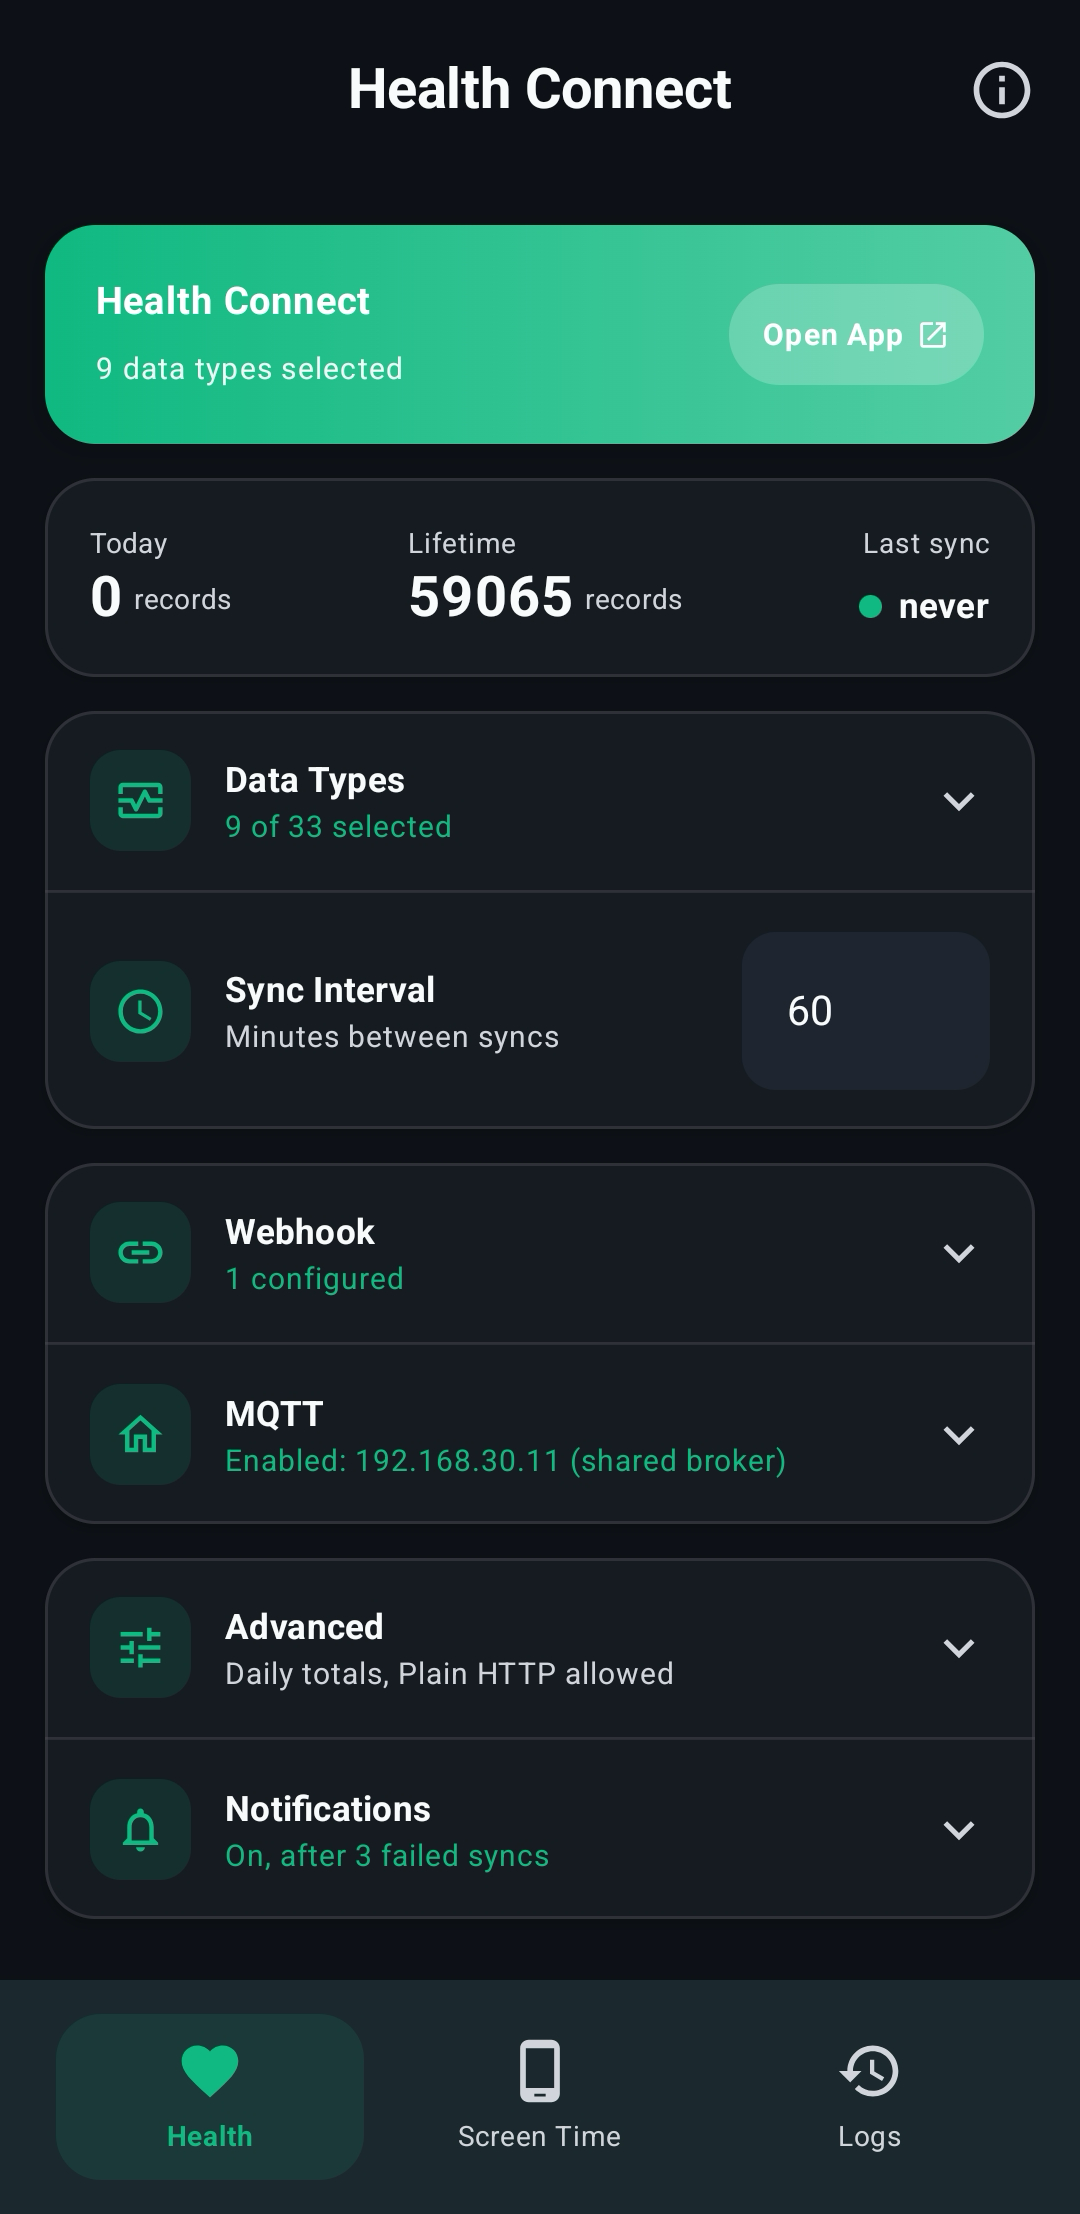
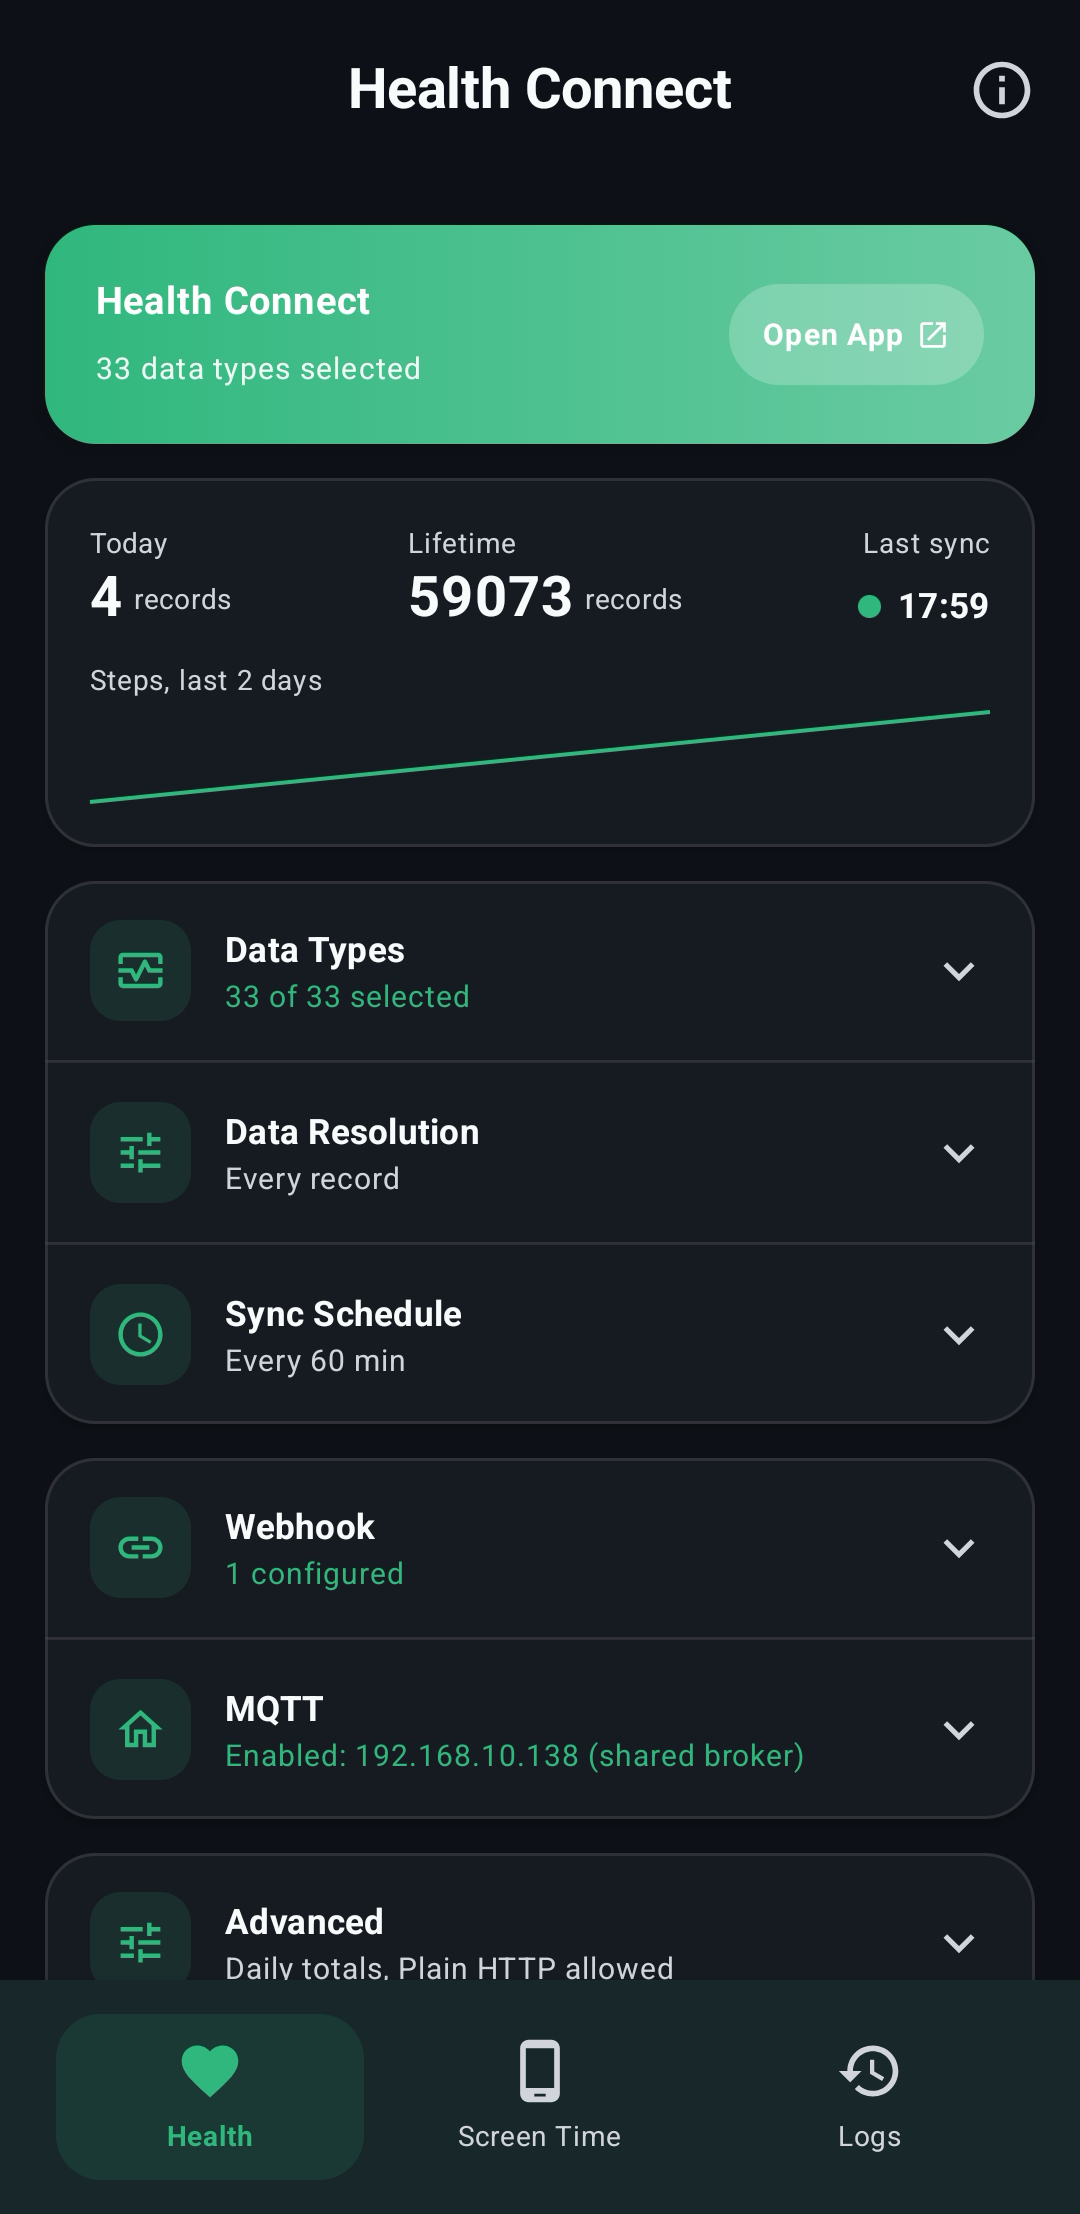
docs: Screenshots that show a working install
The Health Connect screenshot said "Today 0 records, Last sync never" with no sparkline, which is what an app looks like when it does not work. It came from an emulator with no data and empty per-source counters. The new set is from a Samsung S24 in dark mode on 1.15.0: 4 records today, 59,073 lifetime, a green dot at 17:59 and a steps trend. Logs show 100 deliveries at 88 percent, to a webhook and to MQTT, each with its outcome.

Two features shipped in 1.14.0 and appeared in no image anywhere. Data Resolution is now the third store screenshot, showing both families at once: heart rate averaged per minute, skin temperature per fifteen, steps summed per fifteen, distance per hour. About is the fifth, because the brand header is the strongest frame in the app and it was not shown to anyone; it also illustrates the General section of features.md.

The README table swaps the MQTT settings panel for Data Resolution, since the Home Assistant section below already shows both the resulting device and the app side of that setup. Every file in docs/screenshots is now referenced from the docs, which it was not before.

diff --git a/README.md b/README.md
@@ -26,10 +26,10 @@
   <a href="https://github.com/owen282000/life-dashboard-companion-app-ios">iOS version</a>
 </p>
 
-| Health Connect | Screen Time | MQTT / Home Assistant | Delivery logs |
+| Health Connect | Screen Time | Data resolution | Delivery logs |
 |:--:|:--:|:--:|:--:|
-| <img src="docs/screenshots/health-connect.png" alt="Health Connect screen"> | <img src="docs/screenshots/screen-time.png" alt="Screen Time screen"> | <img src="docs/screenshots/mqtt.png" alt="MQTT and sync actions"> | <img src="docs/screenshots/logs.png" alt="Logs screen"> |
-| 33 data types, per-type toggles, incremental sync | Foreground time per app, with a custom day boundary | Sensors appear in Home Assistant automatically | Every delivery logged, payloads inspectable |
+| <img src="docs/screenshots/health-connect.png" alt="Health Connect screen showing 4 records today and 59,073 lifetime, with a steps sparkline"> | <img src="docs/screenshots/screen-time.png" alt="Screen Time screen showing today's minutes, the most used app and a day boundary"> | <img src="docs/screenshots/data-resolution.png" alt="Per-type resolution: heart rate averaged per minute, steps summed per 15 minutes"> | <img src="docs/screenshots/logs.png" alt="Logs screen showing deliveries to a webhook and to MQTT, each with its outcome"> |
+| 33 data types, per-type toggles, incremental sync | Foreground time per app, with a custom day boundary | Dense series as averages or totals per window | Every delivery logged, payloads inspectable |
 
 ## Why this app?
 
@@ -60,6 +60,12 @@ Point the app at the MQTT broker Home Assistant already uses and tap **Sync Now*
 
 <p align="center">
   <img src="docs/screenshots/home-assistant.png" alt="The Life Dashboard Companion device in Home Assistant with its sensors" width="720">
+</p>
+
+The app side of the same setup, with the broker shared between Health Connect and Screen Time:
+
+<p align="center">
+  <img src="docs/screenshots/mqtt.png" alt="The MQTT section in the app: broker host, port, optional credentials and base topic" width="300">
 </p>
 
 The two-minute walkthrough is in [docs/usage.md](docs/usage.md#phone-to-home-assistant-in-two-minutes); [docs/features.md](docs/features.md#home-assistant-and-mqtt) lists every sensor.

diff --git a/docs/features.md b/docs/features.md
@@ -103,6 +103,9 @@ The two are complementary rather than rivals: keep the companion app for presenc
 
 ## General
 
+<img src="screenshots/about.png" alt="The About screen: brand header with the version, and what the app reads from Health Connect and Screen Time" width="300" align="right">
+
+
 - **Background sync** - uses WorkManager for reliable background execution
 - **Logs** - every webhook delivery and MQTT publish with status, error and payload, for debugging
 - **Health Connect install check** - clear guidance when Health Connect is missing or outdated
